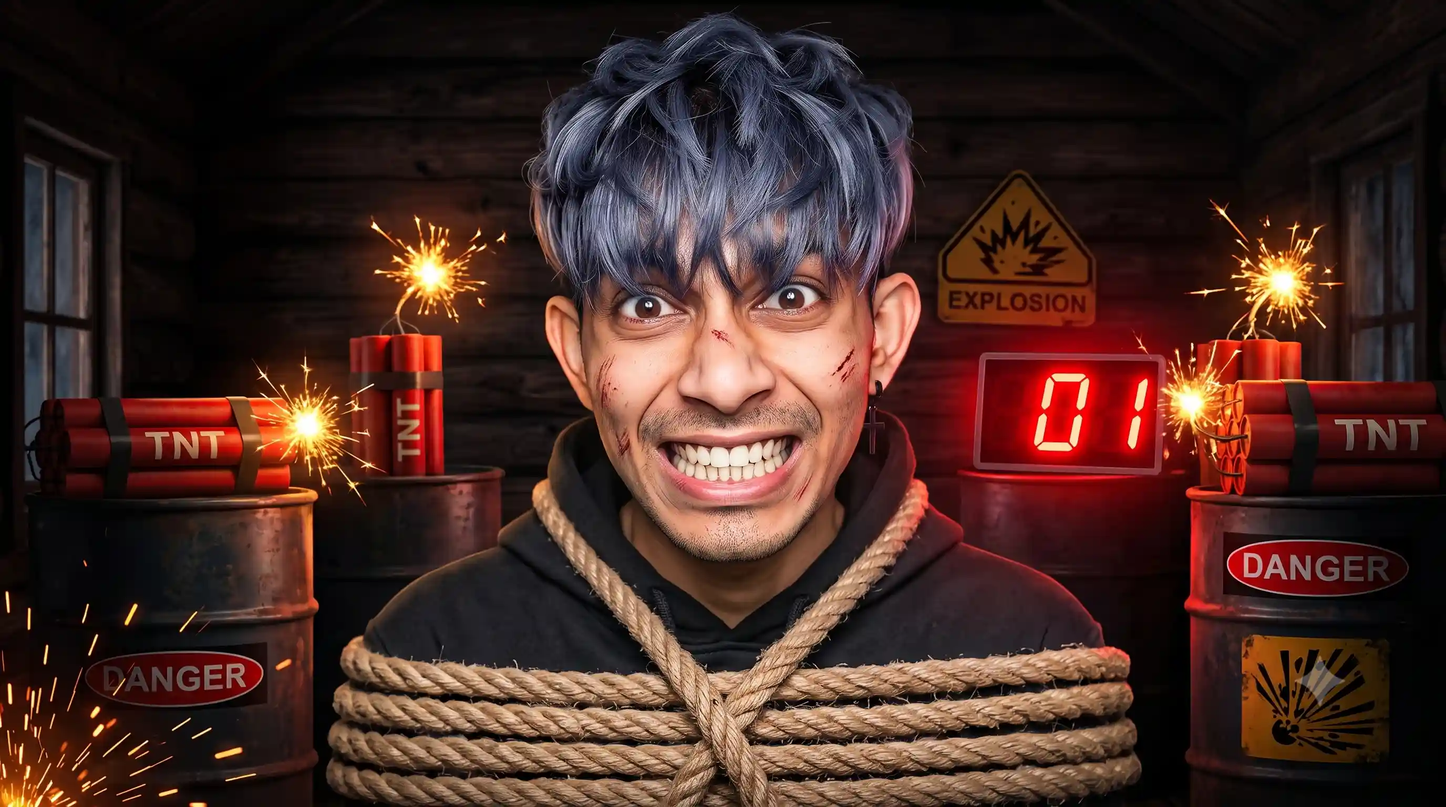
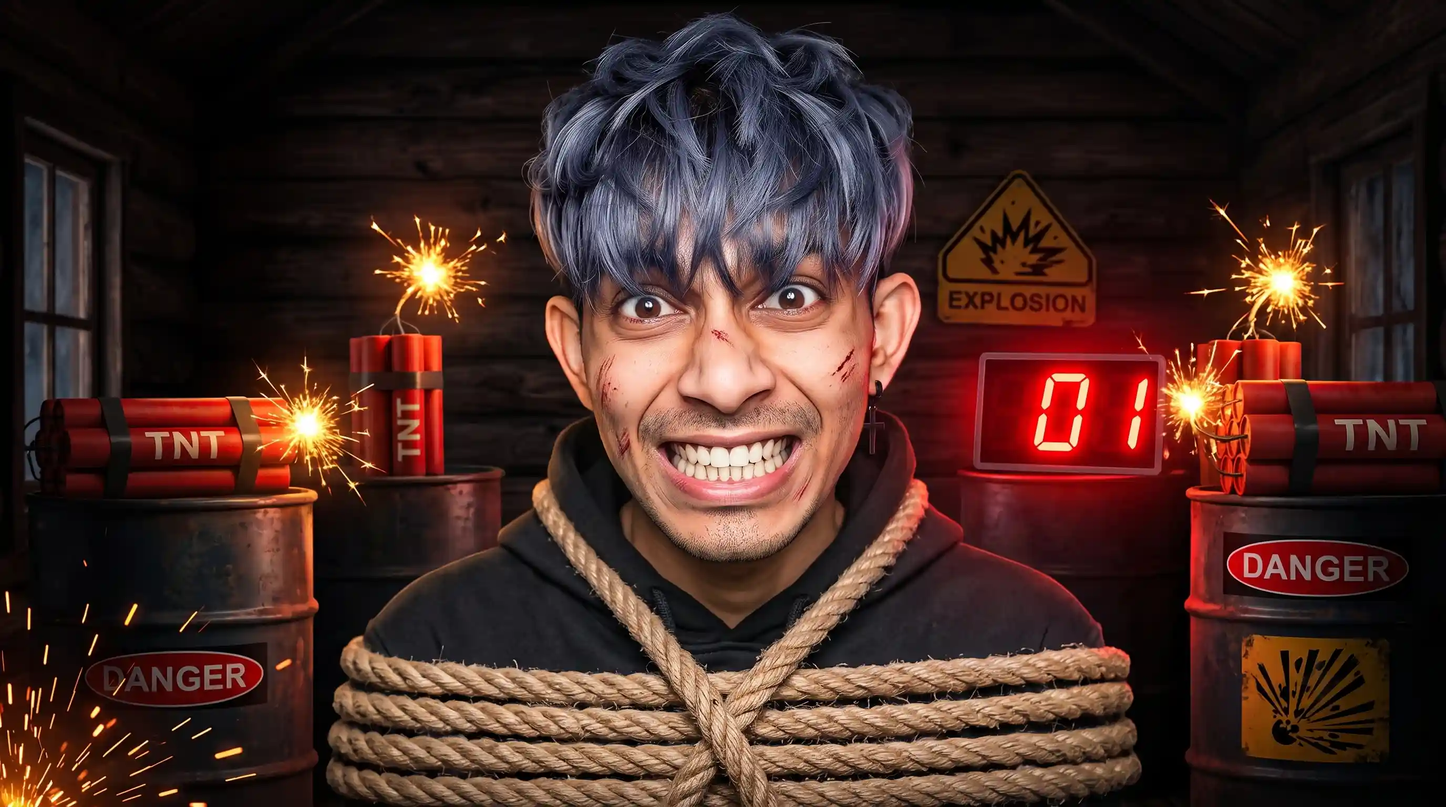
draken

Changed region(s): [[0.9062, 0.8125, 0.9375, 0.875]]

diff --git a/index.html b/index.html
@@ -127,6 +127,18 @@
 					<img src="THUMNAIL/Thumbnail image/22.webp" alt="New Project 3" class="popup-img">
 					<div class="popup-overlay-gradient"></div>
 				</div>
+
+				<div class="popup-item ratio-16x9" data-hover>
+					<div class="popup-tag">NEW</div>
+					<img src="THUMNAIL/Thumbnail image/23.webp" alt="New Project 4" class="popup-img">
+					<div class="popup-overlay-gradient"></div>
+				</div>
+
+				<div class="popup-item ratio-16x9" data-hover>
+					<div class="popup-tag">NEW</div>
+					<img src="THUMNAIL/Thumbnail image/24.webp" alt="New Project 5" class="popup-img">
+					<div class="popup-overlay-gradient"></div>
+				</div>
 			</div>
 	
 			<div class="popup-footer">
@@ -580,14 +592,14 @@
 							data-hover>
 							<div class="portfolio__img-wrapper">
 								<div class="portfolio__overlay"></div>
-								<img src="THUMNAIL/Thumbnail image/22.webp" alt="Thumbnail 1" class="portfolio__img" width="600" height="400" loading="lazy">
+								<img src="THUMNAIL/Thumbnail image/24.webp" alt="Thumbnail 1" class="portfolio__img" width="600" height="400" loading="lazy">
 							</div>
 						</a>
 						<a href="#" class="portfolio__card gs-reveal-card" data-category="youtube-thumbnail" style="display: none;"
 							data-hover>
 							<div class="portfolio__img-wrapper">
 								<div class="portfolio__overlay"></div>
-								<img src="THUMNAIL/Thumbnail image/21.webp"
+								<img src="THUMNAIL/Thumbnail image/23.webp"
 									alt="Thumbnail 2" class="portfolio__img" width="640" height="360" loading="lazy">
 							</div>
 						</a>
@@ -595,7 +607,7 @@
 							data-hover>
 							<div class="portfolio__img-wrapper">
 								<div class="portfolio__overlay"></div>
-								<img src="THUMNAIL/Thumbnail image/20.webp"
+								<img src="THUMNAIL/Thumbnail image/22.webp"
 									alt="Thumbnail 3" class="portfolio__img" width="640" height="360" loading="lazy">
 							</div>
 						</a>
@@ -603,7 +615,7 @@
 							data-hover>
 							<div class="portfolio__img-wrapper">
 								<div class="portfolio__overlay"></div>
-								<img src="THUMNAIL/Thumbnail image/19.webp"
+								<img src="THUMNAIL/Thumbnail image/21.webp"
 									alt="Thumbnail 4" class="portfolio__img" width="640" height="360" loading="lazy">
 							</div>
 						</a>

diff --git a/THUMNAIL/thumbnail-script.js b/THUMNAIL/thumbnail-script.js
@@ -24,6 +24,8 @@ const imageData = [
   "Thumbnail image/20.webp",
   "Thumbnail image/21.webp",
   "Thumbnail image/22.webp",
+  "Thumbnail image/23.webp",
+  "Thumbnail image/24.webp",
 ];
 
 const galleryGrid = document.getElementById("gallery-grid");
